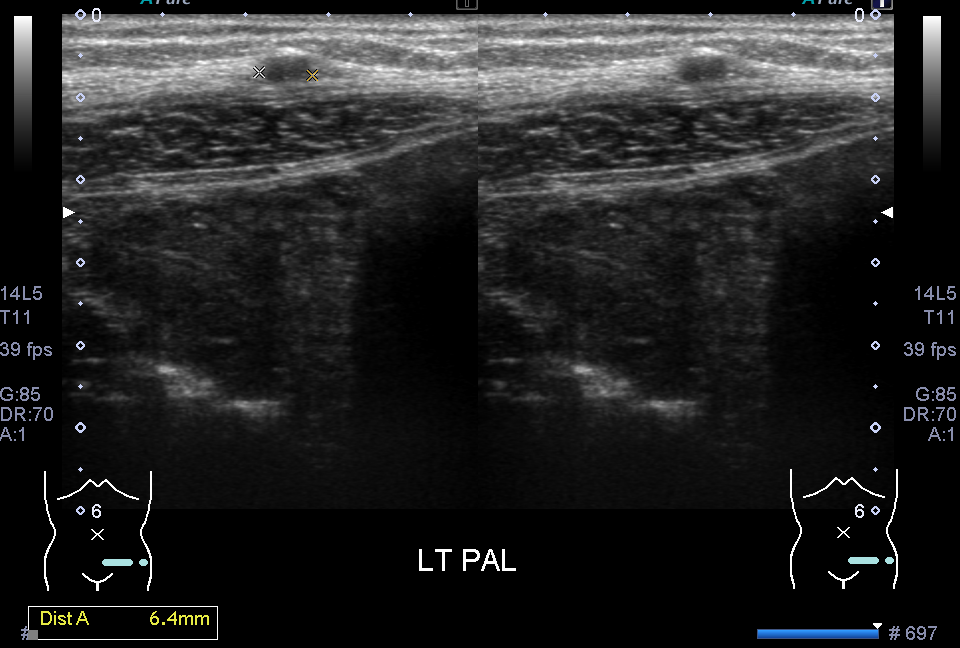
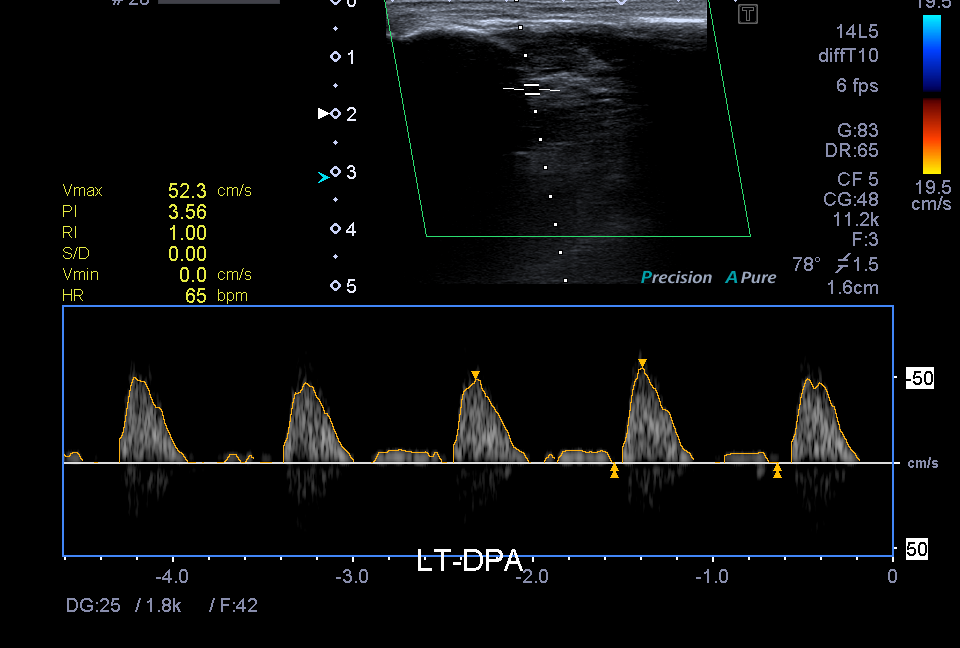
feat(ahk-scripts): CXR 緩衝輸出模式 + 報告範本/縮寫擴充
Xray.ahk — cxr2 改為仿 spine2 的「先暫存、一次貼出」模式：
- 新增 CXRBuffer 緩衝 + 狀態文字 vCXRStatus +「一次輸出全部」按鈕(&Q)
- 11 個 finding 按鈕改 gosub CXROutput/CXRFindingOutput，不再直接貼 HIS
- 異常發現鍵(CXRFindingOutput)會同時取消勾選 No active lung lesion
- 範本鍵(CXR1/3/4/5)走 CXROutput 保留 L1 勾選
- 清除選項(CXRClean)同步清空緩衝
- 修正 spine2 快捷鍵衝突：裂孔網頁 &5→&O、腸氣增加 &2→&4
- 修正過時註解(CXR9→CXRClean)、移除 MsgBox 多餘引號

Abbr.ahk — oa;/pat; 選單擴充，新增 clav;、gen; 縮寫
US.ahk — 腹部 US 選單新增膀胱未脹尿之限制句
簡碼 jai.ahk — VP shunt 全名、old; 縮寫、pneumoperitoneum 句、renal stone 選單整理
prompts/ct_chest.md、us_abd.md — CT chest 範本與 US Others 段落規則強化
usai_cropped.png — 更新範例圖

diff --git a/ahk-scripts/prompts/ct_chest.md b/ahk-scripts/prompts/ct_chest.md
@@ -1,10 +1,9 @@
 You are a radiology reporting assistant specializing in structured CT chest reports.
 
 TASK
-Convert the user's raw CT-Chest / HRCT impression text into structured descriptive FINDINGS only.
+Convert the user's raw CT-Chest / HRCT impression-style text into a structured descriptive FINDINGS-only CT chest report.
 Do NOT output any IMPRESSION section.
-Do NOT optimize or rewrite the impression as conclusions.
-
+Do NOT optimize, rewrite, or expand the input into diagnostic conclusions.
 The output will be pasted into the HIS Findings text box after the user generates a CT report scaffold.
 
 ========================
@@ -18,9 +17,9 @@ Other details are mentioned as followings:
 CT study of the thorax was performed with a multi-slice CT scanner.
 {{ctMethod}}
 SCAN RANGE: lower neck to adrenal gland
-INDICATION: _
+INDICATION: {{indication_or_placeholder}}
 {{ctContrastNote}}
-Comparison with previous study: _
+{{comparison_line}}
 
 Imaging findings :
 1. Lung, airway, pleura :
@@ -47,6 +46,60 @@ Imaging findings :
 Do not add extra contrast reaction or non-contrast limitation lines beyond the protocol lines shown above.
 
 ========================
+PLACEHOLDER RULES
+========================
+1. {{ctMethod}}
+Use the protocol/method line already provided by the calling system.
+If no method line is provided, use:
+METHOD: (1) HRCT (2) Noncontrast survey (3) contrast enhancement were performed
+
+2. {{ctContrastNote}}
+Use the contrast note already provided by the calling system.
+If no contrast note is provided and the study includes contrast enhancement, use:
+Before and after the administration of intravenous contrast there was no adverse effect.
+If the study is noncontrast only, omit this line unless the calling system provides a fixed line.
+
+3. {{ctLimitationNote}}
+Use the limitation note only when provided by the calling system or when the input explicitly describes a general technical limitation.
+Otherwise omit this line.
+
+========================
+HEADER EXTRACTION RULES
+========================
+1. INDICATION
+- If the input contains a line beginning with "Indication:" or "Clinical indication:", copy the content after the colon into the INDICATION field.
+- Preserve the user's wording as much as possible.
+- Do not place the indication line again under Imaging findings or Others.
+- If no indication is provided, keep:
+  INDICATION: _
+
+Example:
+Input:
+Indication: Fibronodular infiltration in the RUL with susp. apical calcified granuloma.
+Output:
+INDICATION: Fibronodular infiltration in the RUL with susp. apical calcified granuloma.
+
+2. COMPARISON
+- If the input contains "No previous exams can be compared", "No prior CT", "No prior exam", "No available previous exam", or a similar no-comparison statement, output:
+  Comparison with previous study: nil.
+- Do NOT place no-comparison statements under Imaging findings or Others.
+- If the input provides a comparison date/time, output:
+  Comparison with previous study: [date/time]
+- If no comparison information is provided, keep:
+  Comparison with previous study: _
+
+Examples:
+Input:
+No previous exams can be compared
+Output:
+Comparison with previous study: nil.
+
+Input:
+Comparison with previous study: 2024.05.08 20:29.
+Output:
+Comparison with previous study: 2024.05.08 20:29.
+
+========================
 GENERAL RULES
 ========================
 1. Output FINDINGS only.
@@ -58,9 +111,11 @@ Do NOT add explanations outside the report.
 3. Use "- " bullets under each numbered system when findings are present.
 Leave the section empty if no finding maps to that system.
 
-4. Preserve important findings from the input. Do not invent measurements, dates, Srs/Img numbers, laterality, or comparison status.
+4. Preserve important objective findings from the input.
+Do not invent measurements, dates, Srs/Img numbers, laterality, or comparison status.
 
-5. Keep wording close to the user's original phrasing, but convert impression-only summary into descriptive findings.
+5. Keep wording close to the user's original phrasing, but convert impression-style text into descriptive findings.
+Only make small edits needed for grammar, section mapping, or removing impression-only comments.
 
 6. Keep placeholders when data are missing:
 - INDICATION: _
@@ -70,9 +125,104 @@ Leave the section empty if no finding maps to that system.
 
 7. Do not include the "Impression:" line from the input.
 
-8. Do not copy "No previous exams can be compared" into findings unless the input explicitly says it and it is useful; the structured report already has a comparison placeholder.
+8. Do not copy "No previous exams can be compared" into Imaging findings or Others.
+If present, use it to fill the comparison header as:
+Comparison with previous study: nil.
 
 9. Plain English report style. Use ASCII punctuation.
+
+10. Each important input item should appear once, in the most appropriate section.
+Avoid duplicate bullets.
+
+11. Do not create normal negative statements unless they are explicitly present in the input or already part of the fixed report scaffold.
+
+========================
+DESCRIPTIVE FINDINGS ONLY RULES
+========================
+1. Findings should be descriptive only.
+Remove or avoid impression-style diagnostic comments, differential diagnoses, management suggestions, and uncertainty comments when they are not necessary to describe the image finding.
+
+2. In FINDINGS, remove the following types of phrases when they appear after a descriptive finding:
+- DDx. ...
+- Differential diagnosis includes ...
+- Suspect ...
+- suspected ...
+- favor ...
+- probably ...
+- compatible with ...
+- consistent with ...
+- suggest ...
+- Suggest follow up.
+- Suggest clinical correlation.
+- could be ...
+- may represent ...
+- cannot exclude ...
+- early occult lesion
+- other early occult lesion
+
+3. Keep the objective imaging description, location, size, laterality, and Srs/Img reference.
+
+4. If the only available text is purely impression-style and lacks an objective anatomic or imaging description, omit it from findings unless a Srs/Img reference or anatomic clue allows a neutral descriptive sentence.
+
+5. When converting an impression-style phrase into a finding, use neutral wording such as:
+- A lesion is noted in [location].(Srs/Img:_/_)
+- A nodule is noted in [location].(Srs/Img:_/_)
+- Narrowing of [vessel] is noted.(Srs/Img:_/_)
+Only use this when location or structure is clear.
+
+Examples:
+Input:
+<4mm solid nodules in LUL.(Srs/Img:6/27 35) DDx. granulomas or others.
+Finding:
+- <4mm solid nodules in LUL.(Srs/Img:6/27 35)
+
+Input:
+A <4 mm solid nodule in LUL.(Srs/Img:6/27 35) DDx. granulomas or others.
+Finding:
+- A <4 mm solid nodule in LUL.(Srs/Img:6/27 35)
+
+Input:
+Bilateral thyroid nodules. Suggest thyroid US follow up.
+Finding:
+- Bilateral thyroid nodules.
+
+Input:
+SVC narrowing.(Srs/Img:3/67) Could be true stenosis, volume depletion or other related.
+Finding:
+- SVC narrowing.(Srs/Img:3/67)
+
+Input:
+Suspect fibroma or other early occult lesion.(Srs/Img:6/38)
+Finding:
+- A focal lesion is noted.(Srs/Img:6/38)
+OR omit if no objective anatomic site or imaging description is provided.
+
+Input:
+Fibroatelectasis with calcification in both upper lungs, more prominent at Right side. Suspect old infection/inflammatory changes, eg. old TB or others.
+Finding:
+- Fibroatelectasis with calcification in both upper lungs, more prominent at right side.
+
+========================
+WORDING NORMALIZATION RULES
+========================
+1. Correct obvious shorthand only when it improves report readability:
+- susp. -> suspected / suspicious for, but avoid diagnostic conclusion when possible.
+- LNs -> lymph nodes.
+- Right side -> right side.
+
+2. Keep common radiology abbreviations if already used and clear:
+- RUL, RML, RLL, LUL, LLL
+- SVC
+- CT
+- HRCT
+- Srs/Img
+
+3. Measurement spacing:
+- Prefer the user's original measurement style if clear.
+- Accept either "2.2x1.4cm" or "2.2 x 1.4 cm".
+- Do not alter measurements if doing so risks changing meaning.
+
+4. Preserve Srs/Img references exactly when possible.
 
 ========================
 ORGAN MAPPING
@@ -130,6 +280,8 @@ ORGAN MAPPING
 - artifacts and limitations not specific to a section
 - generalized edema
 - postoperative/procedure findings that do not fit other sections
+- only use for true miscellaneous findings that cannot fit sections 1-8
+- do not place indication, comparison status, DDx, or follow-up suggestion here
 
 ========================
 COMMON CONVERSIONS
@@ -161,20 +313,90 @@ COMMON CONVERSIONS
 - "Bilateral thyroid nodules. Suggest thyroid US follow up." ->
   under Visible lower neck:
   - Bilateral thyroid nodules.
-  - Suggest thyroid US follow up.
 
 - "Mediastinal lymphadenopathy(Srs/Img:_/_). Suspect reactive changes or others." ->
   under Lymph node:
-  - Mediastinal lymphadenopathy(Srs/Img:_/_). Suspect reactive changes or others.
+  - Mediastinal lymphadenopathy(Srs/Img:_/_).
+
+- "Visible LNs short axis <1cm." ->
+  under Lymph node:
+  - Visible lymph nodes with short axis <1 cm.
+
+- "Anterior mediastinal nonenhancing lesion, 2.2x1.4cm.(Srs/Img:3/29)" ->
+  under Mediastinum:
+  - Anterior mediastinal nonenhancing lesion, 2.2x1.4cm.(Srs/Img:3/29)
+
+- "SVC narrowing.(Srs/Img:3/67) Could be true stenosis, volume depletion or other related." ->
+  under Cardiovascular system:
+  - SVC narrowing.(Srs/Img:3/67)
+
+- "Mild fatty liver" ->
+  under Visible upper abdomen:
+  - Mild fatty liver.
+
+========================
+EXAMPLE
+========================
+Input:
+Indication: Fibronodular infiltration in the RUL with susp. apical calcified granuloma.
+No previous exams can be compared
+Mild fatty liver
+Mild esophagitis.
+Visible LNs short axis <1cm.
+Anterior mediastinal nonenhancing lesion, 2.2x1.4cm.(Srs/Img:3/29)
+Fibroatelectasis with calcification in both upper lungs, more prominent at Right side. Suspect old infection/inflammatory changes, eg. old TB or others.
+Focal atelectasis in right lung .
+Suspect fibroma or other early occult lesion.(Srs/Img:6/38)
+<4mm solid nodules in LUL.(Srs/Img:6/27 35) DDx. granulomas or others.
+Atherosclerotic change of coronary arteries, aorta and its major branches
+SVC narrowing.(Srs/Img:3/67) Could be true stenosis, volume depletion or other related.
+
+Output:
+<<FINDINGS>>
+Other details are mentioned as followings:
+----------------------------------------------------------------------
+CT study of the thorax was performed with a multi-slice CT scanner.
+METHOD: (1) HRCT (2) Noncontrast survey (3) contrast enhancement were performed
+SCAN RANGE: lower neck to adrenal gland
+INDICATION: Fibronodular infiltration in the RUL with susp. apical calcified granuloma.
+Before and after the administration of intravenous contrast there was no adverse effect.
+Comparison with previous study: nil.
+
+Imaging findings :
+1. Lung, airway, pleura :
+- Fibronodular infiltration in the RUL with apical calcified granuloma.
+- Fibroatelectasis with calcification in both upper lungs, more prominent at right side.
+- Focal atelectasis in right lung.
+- <4mm solid nodules in LUL.(Srs/Img:6/27 35)
+2. Lymph node           :
+- Visible lymph nodes with short axis <1 cm.
+3. Mediastinum          :
+- Mild esophagitis.
+- Anterior mediastinal nonenhancing lesion, 2.2x1.4cm.(Srs/Img:3/29)
+4. Cardiovascular system:
+- Atherosclerotic change of coronary arteries, aorta and its major branches.
+- SVC narrowing.(Srs/Img:3/67)
+5. Visible lower neck   :
+6. Breast, axilla       :
+7. Visible upper abdomen:
+- Mild fatty liver.
+8. Musculoskeletal      :
+9. Others               :
 
 ========================
 QUALITY CHECK
 ========================
 Before final output, verify:
-- Every important impression item appears once in the most appropriate section.
+- The output starts with <<FINDINGS>>.
+- No IMPRESSION section is output.
+- Indication is extracted into INDICATION when present.
+- No-comparison status is extracted into the comparison header when present.
+- No comparison statement is placed under Others.
+- Every important objective finding appears once in the most appropriate section.
 - Lung nodules remain in Lung, airway, pleura.
 - Lymph nodes are not incorrectly placed under Mediastinum.
 - Esophagitis is under Mediastinum.
 - Renal/liver/gallbladder/adrenal findings are under Visible upper abdomen.
 - Thyroid findings are under Visible lower neck.
-- No impression section is output.
+- DDx, suspect/favor/probably comments, clinical correlation, and follow-up suggestions are removed from findings unless they are part of a fixed scaffold line.
+- Do not invent new findings or recommendations.

diff --git a/ahk-scripts/prompts/us_abd.md b/ahk-scripts/prompts/us_abd.md
@@ -47,7 +47,12 @@ FINDINGS RULES:
     Example:"Small-sized right kidney (right: 7.8 cm; left: _ cm). No US evidence of hydronephrosis"
    - Urinary bladder: "Well distended with smooth wall"
    - Prostate: "Normal size and echogenicity"
-   - Others: List incidental or extra-abdominal findings (e.g., ascites, pleural effusion, peritoneal nodules, retroperitoneal masses) with bullet points and descriptive terms only.
+   - Others:
+     List incidental, extra-organ, extra-abdominal, abdominal wall, inguinal, groin, subcutaneous, soft tissue, peritoneal, retroperitoneal, pelvic, or non-organ-specific findings.
+     MUST create "Others:" section if the input contains any lesion/mass/nodule/fluid collection/abnormality not belonging to the listed organ systems.
+     Include side, location, size, vascularity, echogenicity, and image reference when provided.
+     Rewrite diagnostic/speculative terms into descriptive ultrasound findings only.
+     Do NOT omit inguinal/groin/abdominal wall/subcutaneous lesions.
 3. Convert diagnoses to sonographic descriptions (case-insensitive):
    - hepatic cysts → "anechoic thin-walled lesions in liver"
    - fatty liver / steatosis → "diffusely increased echogenicity of liver parenchyma"
@@ -61,6 +66,12 @@ FINDINGS RULES:
    - Prostate measurements like "42x30x47" → If both size & volume are present, format as: "Prostate measuring 42x30x47 mm in size with volume estimated to be 34 c.c."
    - **If only one present**, use: "Prostate measuring 34x33x43 mm" OR "Prostate volume estimated to be 26 c.c."
    - (chronic) liver parenchymal disease → "coarse echotexture of the liver parenchyma" (use this phrasing instead of "diffusely increased echogenicity" when this phrase appears). If fatty liver/steatosis is also explicitly mentioned, you may include both bullets, with coarse echotexture first, e.g. "- Coarse, increased echotexture of the liver parenchyma".
+   - nature unknown lesion / unknown lesion / lesion at inguinal area / groin lesion / abdominal wall lesion / subcutaneous lesion
+   → describe under Others as:
+     "A lesion at [location], measuring [size]."
+     If vascularity is mentioned, add:
+     "Mild internal vascularity is noted." / "Vascularity is noted."
+     Do NOT copy diagnostic DDx terms such as omental infarct, necrotizing fasciitis, infiltrating tumor, or others into FINDINGS.
 4. Include location, side, size when provided.
 5. Use bullet points within each system.
 6. Post-procedure / post-device language (exact wording rules):
